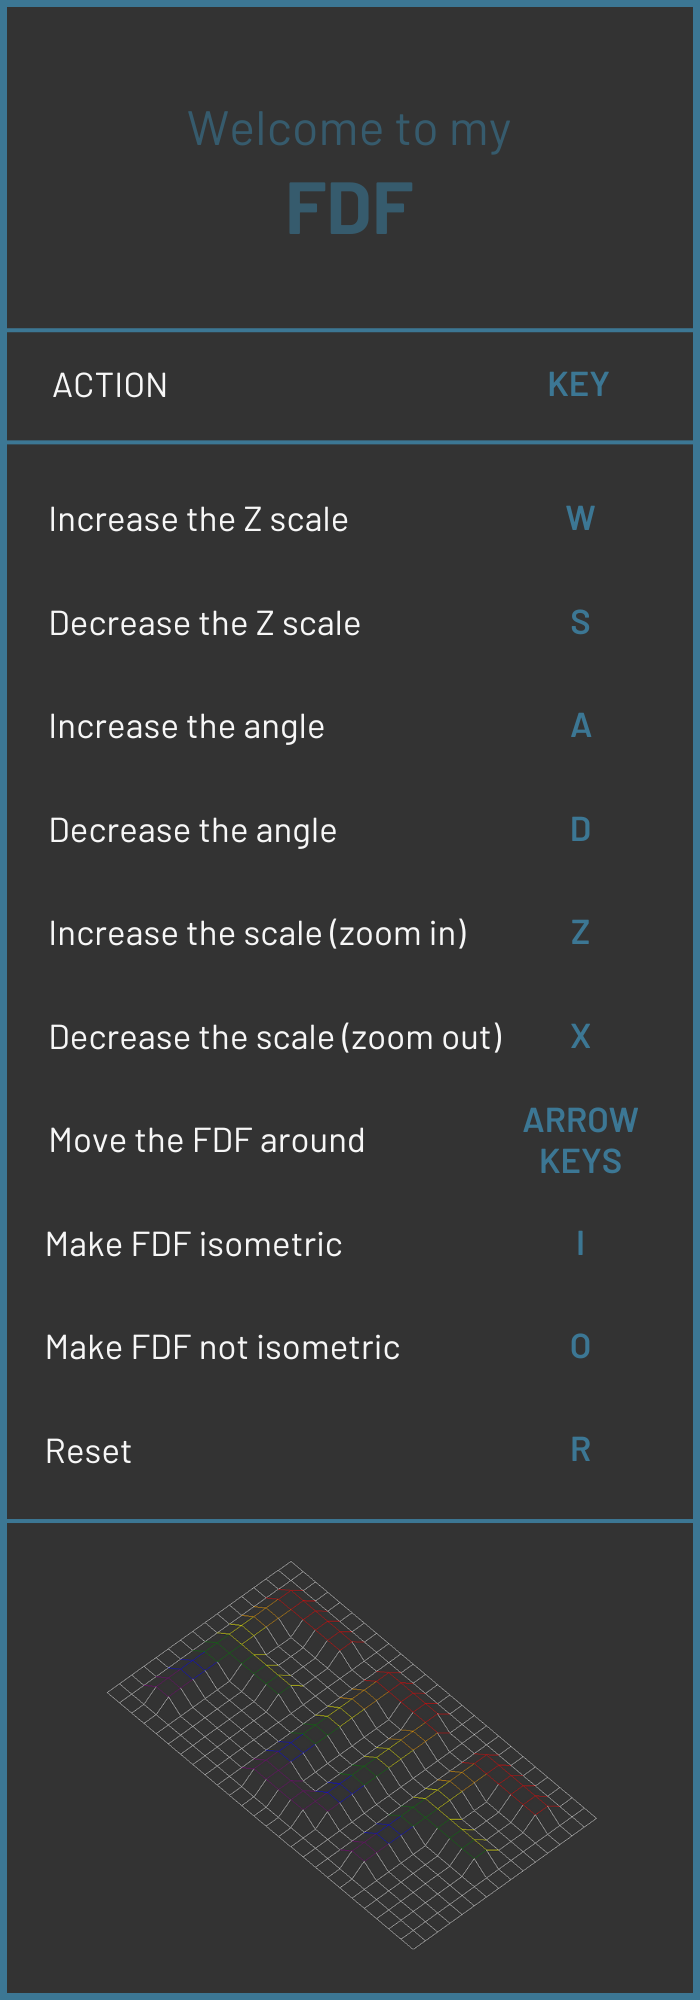
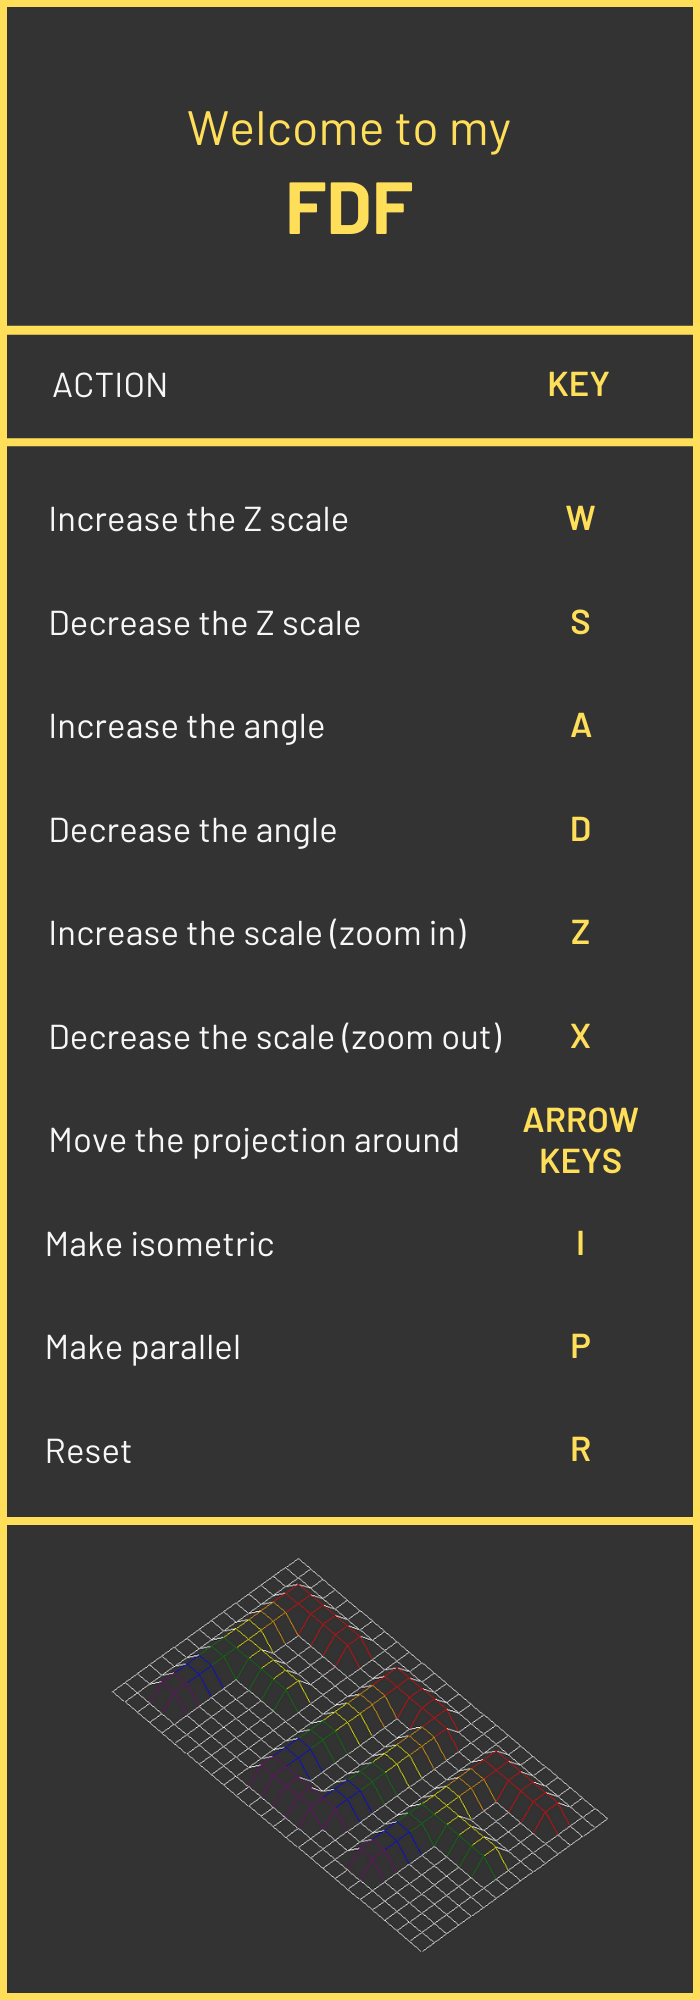
added a nice rotation for the parallel projection.

diff --git a/src/draw.c b/src/draw.c
@@ -6,27 +6,41 @@
 /*   By: livliege <livliege@student.42.fr>          +#+  +:+       +#+        */
 /*                                                +#+#+#+#+#+   +#+           */
 /*   Created: 2024/04/02 13:17:15 by livliege          #+#    #+#             */
-/*   Updated: 2024/06/03 16:03:35 by livliege         ###   ########.fr       */
+/*   Updated: 2024/06/03 18:34:18 by livliege         ###   ########.fr       */
 /*                                                                            */
 /* ************************************************************************** */
 
 #include "../inc/fdf.h"
 
+void	parallel_calculation(t_point *a, t_point *b, t_map_data *map)
+{
+	float	angle;
+
+	angle = map->angle;
+	map->temp_ax = a->x - map->centre_x;
+	map->temp_ay = a->y - map->centre_y;
+	map->temp_bx = b->x - map->centre_x;
+	map->temp_by = b->y - map->centre_y;
+	map->new_ax = map->temp_ax * cos(angle) - map->temp_ay * sin(angle);
+	map->new_ay = map->temp_ax * sin(angle) + map->temp_ay * cos(angle);
+	map->new_bx = map->temp_bx * cos(angle) - map->temp_by * sin(angle);
+	map->new_by = map->temp_bx * sin(angle) + map->temp_by * cos(angle);
+	a->x = map->new_ax + map->centre_x;
+	a->y = map->new_ay + map->centre_y;
+	b->x = map->new_bx + map->centre_x;
+	b->y = map->new_by + map->centre_y;
+}
+
 void	isometric_calculation(t_point *a, t_point *b, t_map_data *map)
 {
-	float	temp_ax;
-	float	temp_ay;
-	float	temp_bx;
-	float	temp_by;
-
-	temp_ax = a->x - map->centre_x;
-	temp_ay = a->y - map->centre_y;
-	temp_bx = b->x - map->centre_x;
-	temp_by = b->y - map->centre_y;
-	a->x = (temp_ax - temp_ay) * cos(map->angle);
-	a->y = (temp_ax + temp_ay) * sin(map->angle) - a->z;
-	b->x = (temp_bx - temp_by) * cos(map->angle);
-	b->y = (temp_bx + temp_by) * sin(map->angle) - b->z;
+	map->temp_ax = a->x - map->centre_x;
+	map->temp_ay = a->y - map->centre_y;
+	map->temp_bx = b->x - map->centre_x;
+	map->temp_by = b->y - map->centre_y;
+	a->x = (map->temp_ax - map->temp_ay) * cos(map->angle);
+	a->y = (map->temp_ax + map->temp_ay) * sin(map->angle) - a->z;
+	b->x = (map->temp_bx - map->temp_by) * cos(map->angle);
+	b->y = (map->temp_bx + map->temp_by) * sin(map->angle) - b->z;
 	a->x += map->centre_x;
 	a->y += map->centre_y;
 	b->x += map->centre_x;
@@ -45,6 +59,8 @@ void	init_point_values(t_point *a, t_point *b, t_map_data *map)
 	b->z *= map->z_scale;
 	if (map->is_isometric == true)
 		isometric_calculation(a, b, map);
+	if (map->is_isometric == false)
+		parallel_calculation(a, b, map);
 	a->x += map->x_offset;
 	a->y += map->y_offset;
 	b->x += map->x_offset;

diff --git a/src/errors_and_clear.c b/src/errors_and_clear.c
@@ -3,10 +3,10 @@
 /*                                                        :::      ::::::::   */
 /*   errors_and_clear.c                                 :+:      :+:    :+:   */
 /*                                                    +:+ +:+         +:+     */
-/*   By: liath <liath@student.42.fr>                +#+  +:+       +#+        */
+/*   By: livliege <livliege@student.42.fr>          +#+  +:+       +#+        */
 /*                                                +#+#+#+#+#+   +#+           */
 /*   Created: 2024/03/06 20:36:48 by livliege          #+#    #+#             */
-/*   Updated: 2024/05/22 17:05:03 by liath            ###   ########.fr       */
+/*   Updated: 2024/06/03 19:08:12 by livliege         ###   ########.fr       */
 /*                                                                            */
 /* ************************************************************************** */
 
@@ -18,7 +18,7 @@ void	ft_exit(int error_code)
 
 	if (error_code == 1)
 		error_message = "ERROR: Incorrect number of arguments\n \
-		Please include the path to a .fdf map file as argument\n";
+		Please include the path to a valid .fdf map file as argument\n";
 	else if (error_code == 2)
 		error_message = "ERROR: Memory allocation failed\n";
 	else if (error_code == 3)
@@ -28,7 +28,7 @@ void	ft_exit(int error_code)
 	else if (error_code == 5)
 		error_message = "ERROR: Empty map\n";
 	else if (error_code == 6)
-		error_message = "ERROR: Lines in file are not consistent\n";
+		error_message = "ERROR: Inconsistent lines in file\n";
 	else if (error_code == 7)
 		error_message = "ERROR: Loading the menu failed\n";
 	else

diff --git a/src/parse_map.c b/src/parse_map.c
@@ -3,10 +3,10 @@
 /*                                                        :::      ::::::::   */
 /*   parse_map.c                                        :+:      :+:    :+:   */
 /*                                                    +:+ +:+         +:+     */
-/*   By: liath <liath@student.42.fr>                +#+  +:+       +#+        */
+/*   By: livliege <livliege@student.42.fr>          +#+  +:+       +#+        */
 /*                                                +#+#+#+#+#+   +#+           */
 /*   Created: 2024/03/24 15:50:29 by livliege          #+#    #+#             */
-/*   Updated: 2024/05/20 15:48:54 by liath            ###   ########.fr       */
+/*   Updated: 2024/06/03 19:08:05 by livliege         ###   ########.fr       */
 /*                                                                            */
 /* ************************************************************************** */
 
@@ -24,7 +24,7 @@ char	*validate_map_name(char *file_path)
 	while (ext[i])
 	{
 		if (j == 0 || file_path[j] != ext[i])
-			ft_exit(4);
+			ft_exit(3);
 		j--;
 		i++;
 	}
@@ -43,7 +43,7 @@ void	fill_point_values(t_point *points, char **split_line, int y)
 	{
 		points[i].x = i;
 		points[i].y = y;
-		points[i].last_point = 0;
+		points[i].last_point = false;
 		points[i].z = ft_atoi(split_line[i]);
 		comma = ft_strchr(split_line[i], ',');
 		if (comma)
@@ -52,7 +52,7 @@ void	fill_point_values(t_point *points, char **split_line, int y)
 			points[i].colour = 0xFFFFFFFF;
 		i++;
 	}
-	points[i - 1].last_point = 1;
+	points[i - 1].last_point = true;
 }
 
 void	parse_map_points(t_map_data *map)

diff --git a/inc/fdf.h b/inc/fdf.h
@@ -6,7 +6,7 @@
 /*   By: livliege <livliege@student.42.fr>          +#+  +:+       +#+        */
 /*                                                +#+#+#+#+#+   +#+           */
 /*   Created: 2024/05/20 16:30:14 by liath             #+#    #+#             */
-/*   Updated: 2024/06/03 16:04:40 by livliege         ###   ########.fr       */
+/*   Updated: 2024/06/03 18:39:59 by livliege         ###   ########.fr       */
 /*                                                                            */
 /* ************************************************************************** */
 
@@ -66,6 +66,15 @@ typedef struct s_map_data
 	int				x_offset;
 	int				y_offset;
 	bool			is_isometric;
+
+	float			temp_ax;
+	float			temp_ay;
+	float			temp_bx;
+	float			temp_by;
+	float			new_ax;
+	float			new_ay;
+	float			new_bx;
+	float			new_by;
 }	t_map_data;
 
 uint32_t	get_colour(char *colour);
@@ -74,10 +83,12 @@ int			get_r(int rgba);
 int			get_g(int rgba);
 int			get_b(int rgba);
 int			get_a(int rgba);
+
+void		fill_canvas(t_map_data *map);
 void		draw_fdf(t_map_data *map);
+
 float		get_max(float a, float b);
 float		get_mod(float a);
-
 
 void		set_defaults(char *file_path, t_map_data *map);
 void		set_position(t_map_data *map);
@@ -98,7 +109,6 @@ void		ft_free_lines_matrix(char **map_lines, t_map_data *map);
 void		ft_exit(int error_code);
 
 // debugging:
-void		print_map(t_map_data *map);
-void		rose_curve(t_map_data *map);
-void		fill_canvas(t_map_data *map);
+// void		print_map(t_map_data *map);
+// void		rose_curve(t_map_data *map);
 #endif

diff --git a/src/main.c b/src/main.c
@@ -6,7 +6,7 @@
 /*   By: livliege <livliege@student.42.fr>          +#+  +:+       +#+        */
 /*                                                +#+#+#+#+#+   +#+           */
 /*   Created: 2024/03/24 14:13:17 by livliege          #+#    #+#             */
-/*   Updated: 2024/06/03 16:05:22 by livliege         ###   ########.fr       */
+/*   Updated: 2024/06/03 16:23:22 by livliege         ###   ########.fr       */
 /*                                                                            */
 /* ************************************************************************** */
 
@@ -33,7 +33,7 @@ void	fill_canvas(t_map_data *map)
 
 void	print_menu(t_map_data *map)
 {
-	map->menu_texture = mlx_load_png("./img/FDF(3).png");
+	map->menu_texture = mlx_load_png("./img/FDF.png");
 	if (!map->menu_texture)
 		ft_exit(7);
 	map->menu_image = mlx_texture_to_image(map->window, map->menu_texture);
